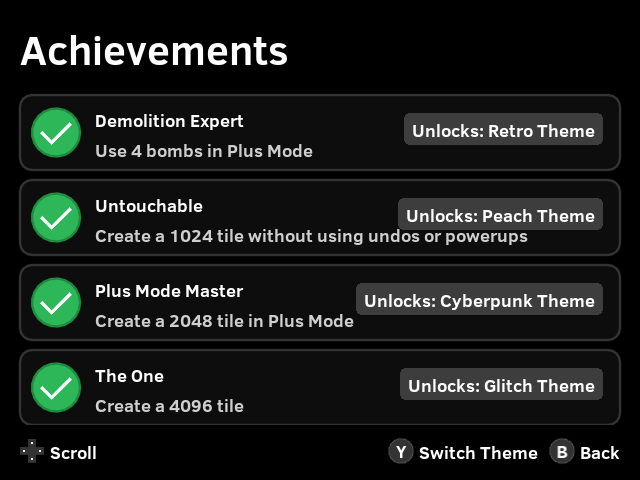
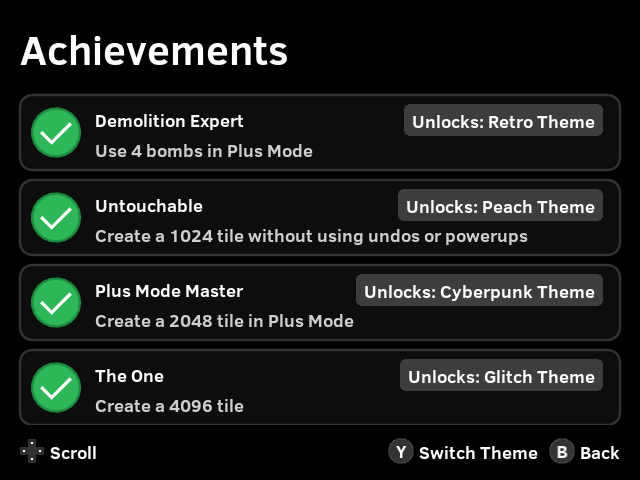
update readme and changelog

diff --git a/CHANGELOG.md b/CHANGELOG.md
@@ -1,5 +1,8 @@
 # Changelog
 
+## [3.0.1]
+- Achivement section is now perfectly readable
+
 ## [3.0.0]
 
 ### Added
